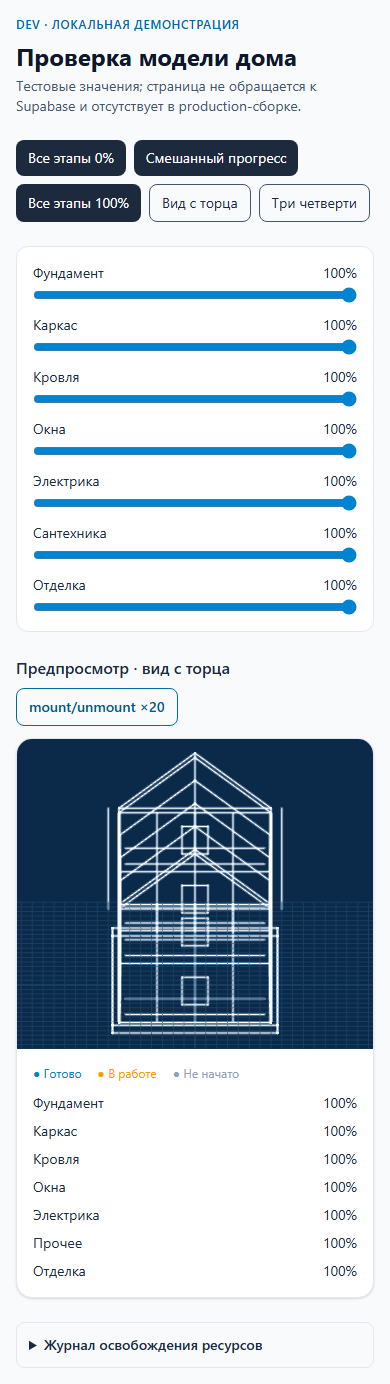
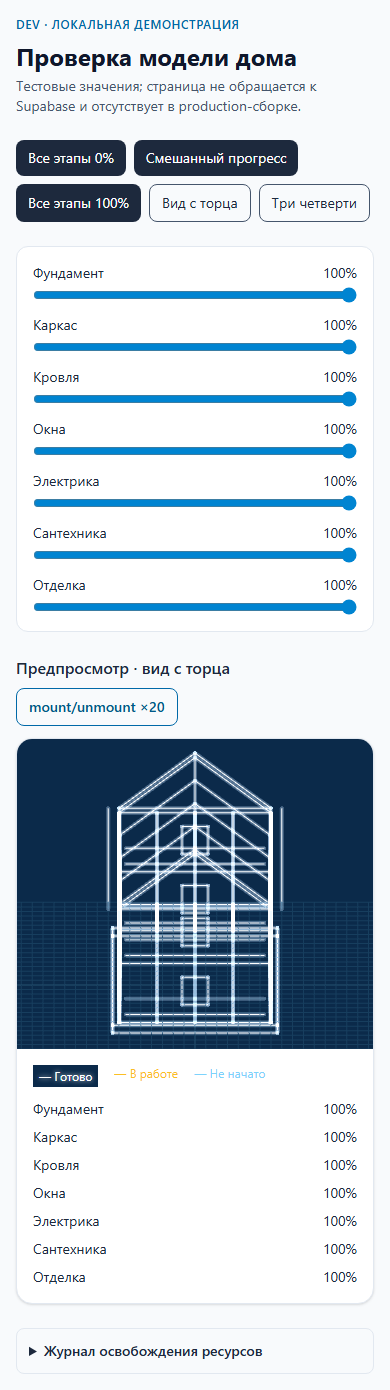
polish: refine house model colors and bounds

diff --git a/src/features/house3d/HouseModel.tsx b/src/features/house3d/HouseModel.tsx
@@ -5,6 +5,7 @@ import { LineSegmentsGeometry } from 'three/addons/lines/LineSegmentsGeometry.js
 import { LineMaterial } from 'three/addons/lines/LineMaterial.js'
 import type { HouseRendererSnapshot, MappedStage } from './types'
 import { HOUSE, HOUSE_BOUNDS, HOUSE_LINES, type HousePart } from './houseGeometry'
+import { HOUSE_COLORS } from './colors'
 import { houseStrings as t } from './strings'
 
 export function HouseModel({ stages, height, interactive = true, initialAngle = 35, onRendererDispose }: { stages: MappedStage[]; height?: number; interactive?: boolean; initialAngle?: number; onRendererDispose?: (snapshot: HouseRendererSnapshot) => void }) {
@@ -42,12 +43,12 @@ export function HouseModel({ stages, height, interactive = true, initialAngle = 
         const material = new THREE.LineBasicMaterial({ color, transparent: opacity < 1, opacity, depthWrite: false }); mats.push(material)
         const object = new THREE.LineSegments(geometry, material); object.userData.key = part; group.add(object)
       }
-      addLines(completePositions, '#ffffff', 1)
-      addLines(workingPositions, '#fbbf24', .72)
-      addLines(ghostPositions, '#7dd3fc', .18)
+      addLines(completePositions, HOUSE_COLORS.ready, 1)
+      addLines(workingPositions, HOUSE_COLORS.working, HOUSE_COLORS.workingOpacity)
+      addLines(ghostPositions, HOUSE_COLORS.ghost, HOUSE_COLORS.ghostOpacity)
       if (completePositions.length) {
         const glowGeometry = new LineSegmentsGeometry(); glowGeometry.setPositions(completePositions); geometries.push(glowGeometry)
-        const material = new LineMaterial({ color: '#ffffff', transparent: true, opacity: .25, linewidth: 3, blending: THREE.AdditiveBlending, depthWrite: false })
+        const material = new LineMaterial({ color: HOUSE_COLORS.glow, transparent: true, opacity: HOUSE_COLORS.readyGlowOpacity, linewidth: HOUSE_COLORS.readyGlowWidth, blending: THREE.AdditiveBlending, depthWrite: false })
         material.resolution.set(root.clientWidth, root.clientHeight); glowMaterials.push(material); mats.push(material)
         const object = new LineSegments2(glowGeometry, material); object.userData.key = part; group.add(object)
       }
@@ -101,7 +102,7 @@ export function HouseModel({ stages, height, interactive = true, initialAngle = 
   const rows = stages.map(s => `${s.name}: ${Math.round(s.percent)}%`)
   return <section className="overflow-hidden rounded-2xl border border-slate-200 bg-white shadow-sm" aria-label={t.title}>
     {!failed ? <div ref={host} className="house3d-canvas w-full" style={height ? { height } : undefined} role="img" aria-label={rows.join(', ')} /> : <p className="p-4 text-sm text-slate-600">{t.fallback}</p>}
-    <div className="space-y-3 p-4"><div className="flex flex-wrap gap-4 text-xs"><span className="text-sky-600">● {t.ready}</span><span className="text-amber-500">● {t.working}</span><span className="text-slate-400">● {t.notStarted}</span></div>
-      {active ? <p role="status">{active}</p> : null}<ul className="grid gap-x-4 gap-y-2 text-sm sm:grid-cols-2">{stages.map(s => <li key={s.key} className="flex justify-between gap-2"><span>{s.part === 'other' ? t.other : s.name}</span><span className="tabular-nums">{Math.round(s.percent)}%</span></li>)}</ul></div>
+    <div className="space-y-3 p-4"><div className="flex flex-wrap gap-4 text-xs"><span style={{ color: HOUSE_COLORS.ready, background: '#0b2a4a', padding: '3px 6px', textShadow: `0 0 5px ${HOUSE_COLORS.glow}` }}>━ {t.ready}</span><span style={{ color: HOUSE_COLORS.working }}>━ {t.working}</span><span style={{ color: HOUSE_COLORS.ghost }}>━ {t.notStarted}</span></div>
+      {active ? <p role="status">{active}</p> : null}<ul className="grid gap-x-4 gap-y-2 text-sm sm:grid-cols-2">{stages.map(s => <li key={s.key} className="flex justify-between gap-2"><span>{s.name}</span><span className="tabular-nums">{Math.round(s.percent)}%</span></li>)}</ul></div>
   </section>
 }

diff --git a/src/features/house3d/houseGeometry.ts b/src/features/house3d/houseGeometry.ts
@@ -16,7 +16,7 @@ for (const x of [-fx,fx]) for (const z of [-fz,fz]) line('foundation',[x,-.4,z],
 // Exterior wall envelope and timber frame: posts every 2.5 m on long walls,
 // floor beams and continuous perimeter plates at y=0, 3, and 6.
 for (const z of [-zWall,zWall]) for (const x of [-xWall,-xWall/2,0,xWall/2,xWall]) line('frame',[x,0,z],[x,6,z])
-for (const x of [-xWall,xWall]) for (const z of [-zWall,zWall]) line('frame',[x,0,z],[x,6,z])
+for (const x of [-xWall,xWall]) for (const z of [-zWall/2,0,zWall/2]) line('frame',[x,0,z],[x,6,z])
 for (const y of [0,3,6]) {
   for (const z of [-zWall,zWall]) line('frame',[-xWall,y,z],[xWall,y,z])
   for (const x of [-xWall,xWall]) line('frame',[x,y,-zWall],[x,y,zWall])
@@ -66,7 +66,7 @@ for (const x of [-4.96,4.96]) for (const z of [-3.5,-1.75,0,1.75,3.5]) line('fin
 
 // Handover highlights the full outer body and roof contour.
 for (const z of [-zRoof,zRoof]) line('handover',[-xRoof,6,z],[xRoof,6,z])
-for (const x of [-xRoof,xRoof]) { line('handover',[x,0,-zWall],[x,6,-zWall]); line('handover',[x,0,zWall],[x,6,zWall]) }
+for (const x of [-xWall,xWall]) { line('handover',[x,0,-zWall],[x,6,-zWall]); line('handover',[x,0,zWall],[x,6,zWall]) }
 for (const x of [-xRoof,xRoof]) { line('handover',[x,6,-zWall],[x,8.8,0]); line('handover',[x,8.8,0],[x,6,zWall]) }
 line('handover',[-xRoof,8.8,0],[xRoof,8.8,0])
 

diff --git a/src/features/house3d/houseGeometry.test.ts b/src/features/house3d/houseGeometry.test.ts
@@ -51,4 +51,14 @@ describe('house geometry in meters', () => {
     expect(roof.some(([x,y,z]) => x === -5 && y === 6 && z === 3.5)).toBe(true)
     expect(vertices('electric').every(([x,y,z]) => Math.abs(x) <= 5 && y >= 0 && y <= 6 && Math.abs(z) <= 3.5)).toBe(true)
   })
+
+  it('keeps every generated segment in the declared envelope and avoids detached contour posts', () => {
+    for (const line of HOUSE_LINES) for (const [x,y,z] of line.points) {
+      expect(x).toBeGreaterThanOrEqual(HOUSE_BOUNDS.min[0]); expect(x).toBeLessThanOrEqual(HOUSE_BOUNDS.max[0])
+      expect(y).toBeGreaterThanOrEqual(HOUSE_BOUNDS.min[1]); expect(y).toBeLessThanOrEqual(HOUSE_BOUNDS.max[1])
+      expect(z).toBeGreaterThanOrEqual(HOUSE_BOUNDS.min[2]); expect(z).toBeLessThanOrEqual(HOUSE_BOUNDS.max[2])
+    }
+    const contourPosts = parts('handover').filter(line => line.points.every(([, ,z]) => Math.abs(z) === 3.5) && line.points.every(([,y]) => y === 0 || y === 6))
+    expect(contourPosts.every(line => line.points.every(([x]) => Math.abs(x) === 5))).toBe(true)
+  })
 })

diff --git a/src/features/house3d/stagesToParts.test.ts b/src/features/house3d/stagesToParts.test.ts
@@ -16,6 +16,11 @@ describe('stagesToParts', () => {
   it('uses sort order when the stage name is not recognized', () => {
     expect(stagesToParts([{...stage('x','Неизвестный этап',40),sortOrder:2}])[0].part).toBe('frame')
   })
+  it('normalizes the miscellaneous template name and maps its sort order', () => {
+    expect(stagesToParts([stage('misc',' \\u041f\\u0420\\u041e\\u0427\\u0415\\u0415 ',40)])[0].part).toBe('other')
+    expect(stagesToParts([stage('misc2','\\u041f\\u0440\\u043e\\u0447\\u0438\\u0435 \\u0440\\u0430\\u0431\\u043e\\u0442\\u044b',40)])[0].part).toBe('other')
+    expect(stagesToParts([{...stage('misc3','custom name',40),sortOrder:8}])[0].part).toBe('other')
+  })
   it('clamps out-of-range percentages', () => {
     expect(stagesToParts([stage('a','Фундамент',-4),stage('b','Каркас',120)]).map(s=>s.percent)).toEqual([0,100])
   })

diff --git a/src/features/house3d/stagesToParts.ts b/src/features/house3d/stagesToParts.ts
@@ -8,8 +8,10 @@ const byName: Record<string, HousePart> = {
   '\u044d\u043b\u0435\u043a\u0442\u0440\u0438\u043a\u0430': 'electric',
   '\u043e\u0442\u0434\u0435\u043b\u043a\u0430': 'finish',
   '\u0441\u0434\u0430\u0447\u0430': 'handover',
+  '\u043f\u0440\u043e\u0447\u0435\u0435': 'other',
+  '\u043f\u0440\u043e\u0447\u0438\u0435 \u0440\u0430\u0431\u043e\u0442\u044b': 'other',
 }
-const byOrder: Record<number, HousePart> = { 1: 'foundation', 2: 'frame', 3: 'roof', 4: 'windows', 5: 'electric', 7: 'finish' }
+const byOrder: Record<number, HousePart> = { 1: 'foundation', 2: 'frame', 3: 'roof', 4: 'windows', 5: 'electric', 7: 'finish', 8: 'other' }
 export function stagesToParts(stages: HouseStage[]): MappedStage[] {
   return stages.map(stage => {
     const normalized = stage.name.trim().toLocaleLowerCase('ru').replace(/\s+/g, ' ')

diff --git a/src/features/house3d/colors.ts b/src/features/house3d/colors.ts
@@ -1,0 +1,10 @@
+export const HOUSE_COLORS = {
+  ready: '#ffffff',
+  working: '#fbbf24',
+  ghost: '#7dd3fc',
+  glow: '#ffffff',
+  readyGlowOpacity: .25,
+  readyGlowWidth: 4,
+  workingOpacity: .9,
+  ghostOpacity: .12,
+} as const

diff --git a/docs/house3d/README.md b/docs/house3d/README.md
@@ -13,6 +13,10 @@ The wireframe body is 10 × 7 m with 6 m walls, a 10.6 × 0.4 × 7.6 m slab, two
 
 The new geometry tests check the overall dimensions, window and door bounds and wall planes, window and door sizes, electrical/roof bounds, and roof support points at y=6.
 
+The model and legend share `HOUSE_COLORS`: completed is white with additive glow, in-progress is amber, and untouched geometry is pale blue at 0.12 opacity. At partial percentages, completed segments remain white while the rest of that part is amber. Geometry tests also enforce that every generated vertex stays inside the declared model bounds.
+
+The repository contains no `stage_templates` seed or migration, and this checkout has no database connection to query the live catalog. The mapper covers normalized `Прочее` / `Прочие работы` names and the fallback sort order 8; UI rows display the raw stage name supplied by the project. The exact live template name could not be independently verified from this checkout.
+
 ## Renderer lifecycle
 
 The dev page's **mount/unmount ×20** control was run in headless Chromium. Each unmount samples `renderer.info.memory` and `renderer.info.programs`, calls `dispose()` and `forceContextLoss()`, and checks tracked contexts.
